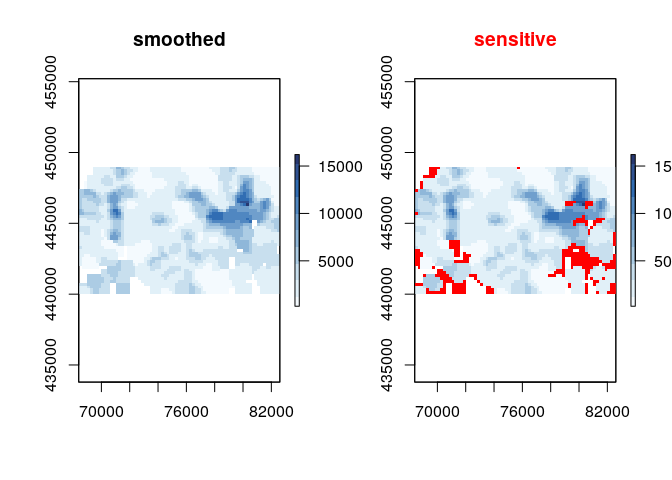
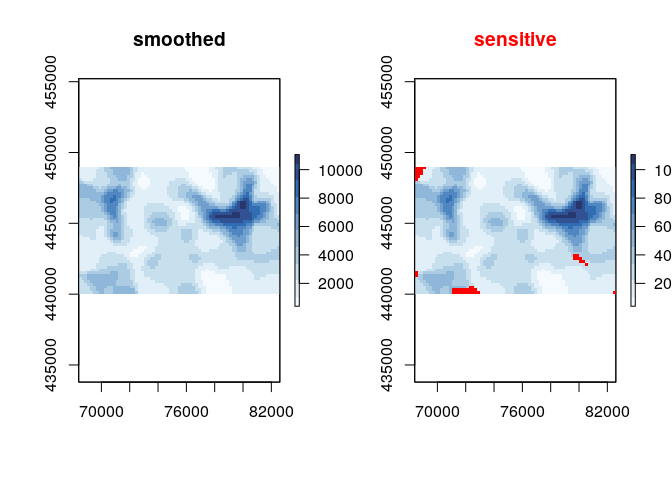
tweaking

diff --git a/README.md b/README.md
@@ -97,7 +97,7 @@ plot(smoothed)
 
 # what is the sensitivy fraction?
 sensitivity_score(smoothed)
-#> [1] 0.09800066
+#> [1] 0.01408451
 
 # let's remove the sensitive data.
 smoothed_safe <- remove_sensitive(smoothed, min_count = 3)
